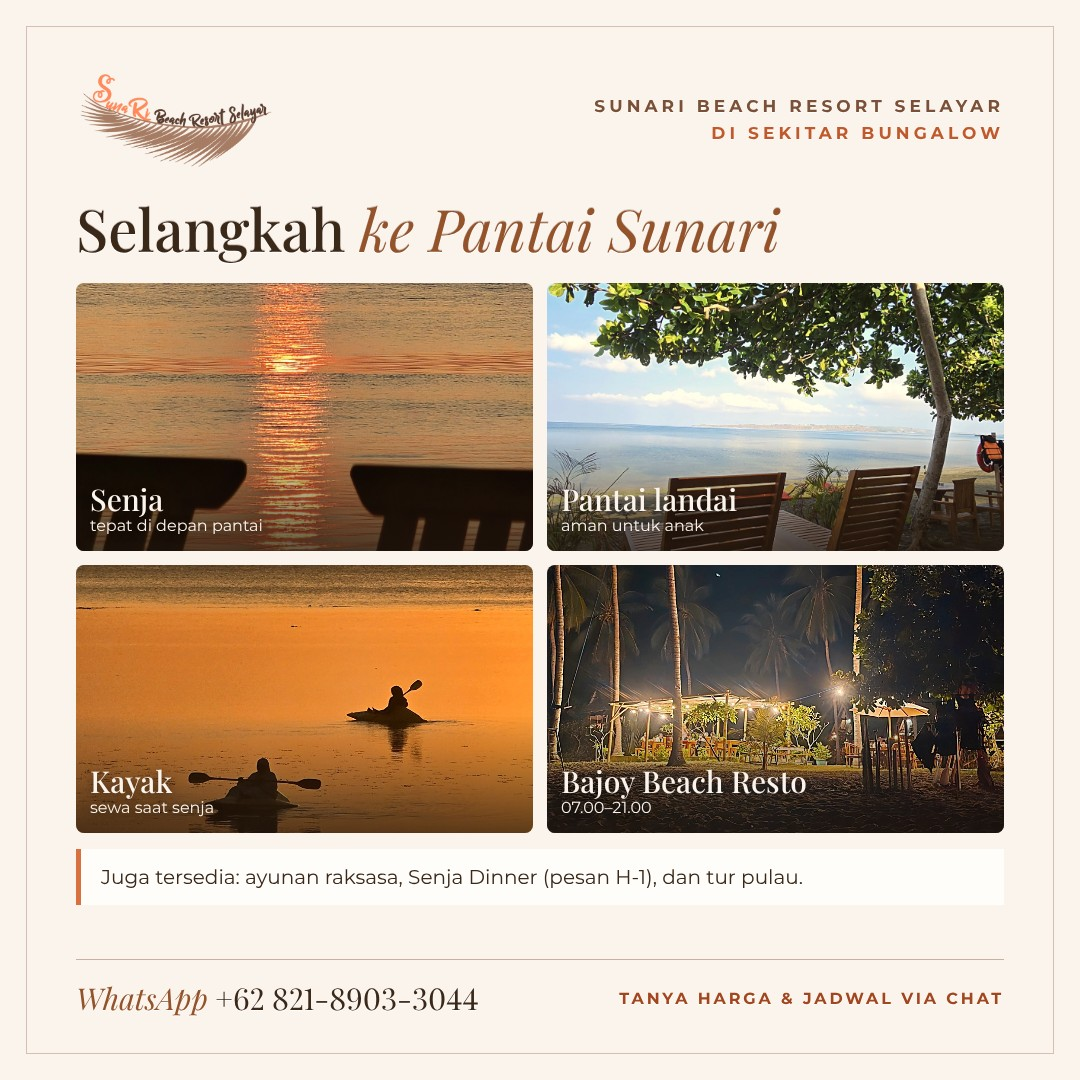
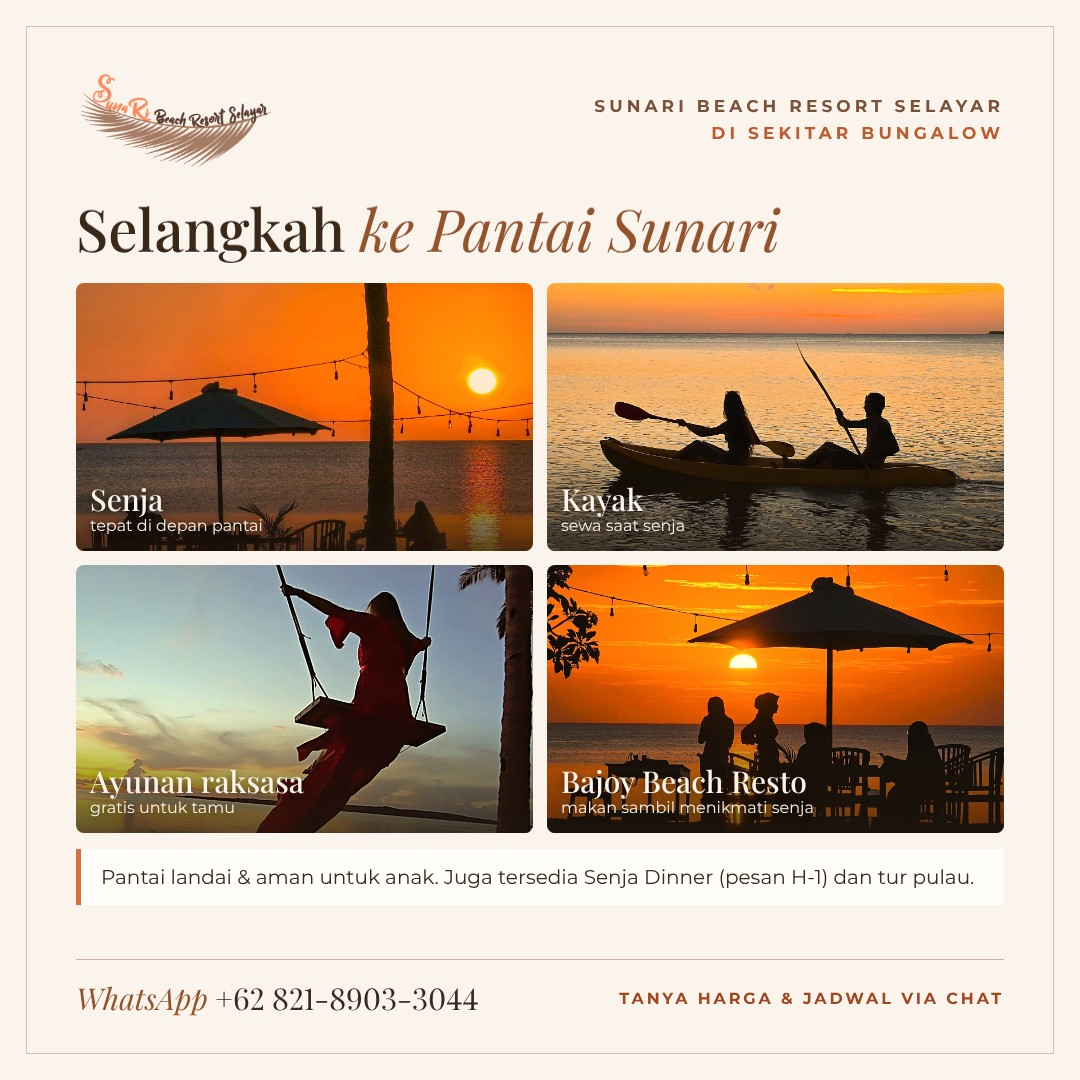
Katalog Superior gambar 9: ganti foto (senja, kayak, ayunan raksasa, Bajoy Beach Resto)
Claude-Session: https://claude.ai/code/session_01KeLc5eBGUnchV5ne3wvwHX

diff --git a/whatsapp/katalog-superior/katalog.html b/whatsapp/katalog-superior/katalog.html
@@ -94,4 +94,4 @@ body{background:#ccc;font-family:Montserrat,sans-serif;color:#3A2819;-webkit-fon
 </style></head><body><div class="sq cover"><div class="frame"></div><div class="bg"><img class="ph" src="foto/g_eksterior.jpg" style="object-position:center 45%"></div><div class="shade"></div>
 <div class="top"><img src="../../assets/logo-sunari-cream.png"></div>
 <div class="txt"><div class="k">SUNARI BEACH RESORT SELAYAR</div><div class="t serif">Superior<br>Bungalow</div><div class="s serif">Rumah kayu di antara pohon kelapa</div>
-<div class="chips"><span>A-frame &amp; loteng</span><span>King bed</span><span>Termasuk sarapan</span></div></div></div><div class="sq "><div class="frame"></div><div class="pad"><div class="head"><img src="../../assets/logo-sunari-color.png"><div class="caps">Superior Bungalow<br><span style="color:#C0592C">Sorotan utama</span></div></div><div class="h1 serif" style="font-size:58px;margin-top:26px">Kamar mandi <span class="it">bertaman</span></div><div class="big" style="height:470px;margin-top:24px"><img class="ph" src="foto/g_taman.jpg" style="object-position:center 50%"></div><div class="feat"><div><div class="ic "><svg viewBox="0 0 24 24"><circle cx="12" cy="14" r="4"/><path d="M2 18h20M12 5v3M4.5 8l2 2M19.5 8l-2 2"/></svg></div><b>Semi-outdoor</b><span>langit terbuka</span></div><div><div class="ic b"><svg viewBox="0 0 24 24"><path d="M4 21V8a5 5 0 0110 0"/><path d="M11 8h6"/><path d="M12 12v1M15 12v1M18 12v1M13.5 15v1M16.5 15v1"/></svg></div><b>Rain shower</b><span>segar</span></div><div><div class="ic c"><svg viewBox="0 0 24 24"><path d="M6 3h12v14H6z"/><path d="M6 17l-1 4h14l-1-4M9 7h6"/></svg></div><b>Lengkap</b><span>handuk &amp; perlengkapan</span></div></div></div><div class="foot"><div class="wa"><i>WhatsApp</i> +62 821-8903-3044</div><div class="tag">Tanya harga &amp; jadwal via chat</div></div></div><div class="sq "><div class="frame"></div><div class="pad"><div class="head"><img src="../../assets/logo-sunari-color.png"><div class="caps">Superior Bungalow<br><span style="color:#C0592C">Kamar</span></div></div><div class="h1 serif" style="font-size:58px;margin-top:26px">A-frame <span class="it">dengan loteng</span></div><div class="two" style="height:500px"><div><img class="ph" src="foto/g_kamar.jpg" style="object-position:center 55%"></div><div><img class="ph" src="foto/g_loteng.jpg" style="object-position:center 50%"></div></div><ul class="bul"><li>King bed di bawah langit-langit kayu yang menjulang</li><li>Loteng dengan tangga kayu</li><li>Lebih luas dari Standard &amp; VIP Standard</li></ul></div><div class="foot"><div class="wa"><i>WhatsApp</i> +62 821-8903-3044</div><div class="tag">Tanya harga &amp; jadwal via chat</div></div></div><div class="sq "><div class="frame"></div><div class="pad"><div class="head"><img src="../../assets/logo-sunari-color.png"><div class="caps">Superior Bungalow<br><span style="color:#C0592C">Fasilitas</span></div></div><div class="h1 serif" style="font-size:58px;margin-top:26px">Semua yang <span class="it">Anda butuhkan</span></div><div class="g4i"><div><div class="ic "><svg viewBox="0 0 24 24"><path d="M3 18v-6a2 2 0 012-2h14a2 2 0 012 2v6"/><path d="M3 15h18M3 18v2M21 18v2"/><path d="M6 10V7a1 1 0 011-1h4a1 1 0 011 1v3"/></svg></div><b>King bed</b><span>bantal &amp; selimut ekstra</span></div><div><div class="ic b"><svg viewBox="0 0 24 24"><rect x="3" y="5" width="18" height="12" rx="1.5"/><path d="M9 21h6M12 17v4"/></svg></div><b>TV</b><span>di kamar</span></div><div><div class="ic b"><svg viewBox="0 0 24 24"><path d="M12 3v18M4.2 7.5l15.6 9M4.2 16.5l15.6-9"/><path d="M10 4.5l2 1.5 2-1.5M10 19.5l2-1.5 2 1.5"/></svg></div><b>AC</b><span>sejuk</span></div><div><div class="ic b"><svg viewBox="0 0 24 24"><path d="M2.5 9a14 14 0 0119 0M5.5 12.5a9.5 9.5 0 0113 0M8.5 16a5 5 0 017 0"/><circle cx="12" cy="19" r="1"/></svg></div><b>Wi-Fi</b><span>gratis</span></div><div><div class="ic c"><svg viewBox="0 0 24 24"><path d="M6 20h11l-1-9H7z"/><path d="M8 11a4 4 0 018 0M16 13h2a2 2 0 010 4h-1.5"/><path d="M11 5h2"/></svg></div><b>Kopi &amp; teh</b><span>dengan kettle</span></div><div><div class="ic c"><svg viewBox="0 0 24 24"><path d="M3 9h18M5 9v11M19 9v11M9 9v5h6V9"/></svg></div><b>Meja kerja</b><span>&amp; rias</span></div><div><div class="ic c"><svg viewBox="0 0 24 24"><path d="M3 3h18M5 3c0 6 2 10 5 13v5M19 3c0 6-2 10-5 13v5"/></svg></div><b>Tirai blackout</b><span>tidur nyenyak</span></div><div><div class="ic b"><svg viewBox="0 0 24 24"><path d="M4 21V8a5 5 0 0110 0"/><path d="M11 8h6"/><path d="M12 12v1M15 12v1M18 12v1M13.5 15v1M16.5 15v1"/></svg></div><b>Rain shower</b><span>semi-outdoor</span></div><div><div class="ic c"><svg viewBox="0 0 24 24"><path d="M6 3h12v14H6z"/><path d="M6 17l-1 4h14l-1-4M9 7h6"/></svg></div><b>Handuk</b><span>&amp; perlengkapan mandi</span></div><div><div class="ic c"><svg viewBox="0 0 24 24"><path d="M3 17h17a1 1 0 001-1 7 7 0 00-7-7H8"/><path d="M3 17l2-5h9M8 20h10"/></svg></div><b>Setrika</b><span>atas permintaan</span></div><div><div class="ic "><svg viewBox="0 0 24 24"><circle cx="12" cy="14" r="4"/><path d="M2 18h20M12 5v3M4.5 8l2 2M19.5 8l-2 2"/></svg></div><b>Teras pribadi</b><span>kursi santai</span></div><div><div class="ic "><svg viewBox="0 0 24 24"><path d="M7 3v8M5 3v5a2 2 0 004 0V3M7 11v10"/><path d="M17 3c-2 0-3 3-3 6s1 4 3 4v8"/></svg></div><b>Sarapan</b><span>setiap pagi</span></div></div></div><div class="foot"><div class="wa"><i>WhatsApp</i> +62 821-8903-3044</div><div class="tag">Tanya harga &amp; jadwal via chat</div></div></div><div class="sq "><div class="frame"></div><div class="pad"><div class="head"><img src="../../assets/logo-sunari-color.png"><div class="caps">Superior Bungalow<br><span style="color:#C0592C">Kamar mandi</span></div></div><div class="h1 serif" style="font-size:58px;margin-top:26px">Segar, terang, <span class="it">dekat alam</span></div><div class="three"><div><img class="ph" src="foto/g_shower.jpg" style="object-position:center 50%"></div><div><img class="ph" src="foto/g_wastafel.jpg" style="object-position:center 50%"></div><div><img class="ph" src="foto/g_toilet.jpg" style="object-position:center 55%"></div></div><ul class="bul"><li>Semi-outdoor, dikelilingi taman hijau</li><li>Rain shower, wastafel, toilet duduk</li><li>Perlengkapan mandi lengkap &amp; handuk bersih setiap tamu</li></ul></div><div class="foot"><div class="wa"><i>WhatsApp</i> +62 821-8903-3044</div><div class="tag">Tanya harga &amp; jadwal via chat</div></div></div><div class="sq "><div class="frame"></div><div class="pad"><div class="head"><img src="../../assets/logo-sunari-color.png"><div class="caps">Superior Bungalow<br><span style="color:#C0592C">Teras pribadi</span></div></div><div class="h1 serif" style="font-size:58px;margin-top:26px">Teras kayu <span class="it">menghadap taman</span></div><div class="big" style="height:520px;margin-top:24px"><img class="ph" src="foto/g_teras.jpg" style="object-position:center 55%"></div><ul class="bul"><li>Kursi santai di teras kayu pribadi</li><li>Pemandangan laut atau taman (sesuai unit)</li></ul></div><div class="foot"><div class="wa"><i>WhatsApp</i> +62 821-8903-3044</div><div class="tag">Tanya harga &amp; jadwal via chat</div></div></div><div class="sq "><div class="frame"></div><div class="pad"><div class="head"><img src="../../assets/logo-sunari-color.png"><div class="caps">Superior Bungalow<br><span style="color:#C0592C">Detail kamar</span></div></div><div class="h1 serif" style="font-size:58px;margin-top:26px">Rapi, hangat, <span class="it">serba kayu</span></div><div class="two" style="height:500px"><div><img class="ph" src="foto/g_meja.jpg" style="object-position:center 50%"></div><div><img class="ph" src="foto/g_tv.jpg" style="object-position:center 50%"></div></div><ul class="bul"><li>Meja rias dengan cermin &amp; gantungan baju</li><li>TV dan set kopi/teh dengan pemanas air</li><li>AC, Wi-Fi, dan tirai blackout</li></ul></div><div class="foot"><div class="wa"><i>WhatsApp</i> +62 821-8903-3044</div><div class="tag">Tanya harga &amp; jadwal via chat</div></div></div><div class="sq "><div class="frame"></div><div class="pad"><div class="head"><img src="../../assets/logo-sunari-color.png"><div class="caps">Superior Bungalow<br><span style="color:#C0592C">Info menginap</span></div></div><div class="h1 serif" style="font-size:58px;margin-top:26px">Yang perlu <span class="it">Anda tahu</span></div><div class="info"><div><div class="ic "><svg viewBox="0 0 24 24"><circle cx="12" cy="8" r="4"/><path d="M4 21c0-4 4-6 8-6s8 2 8 6"/></svg></div><div><b>2 tamu</b><span>maks. 3 dengan 1 extra bed (berbayar)</span></div></div><div><div class="ic b"><svg viewBox="0 0 24 24"><circle cx="12" cy="12" r="9"/><path d="M12 7v5l3 2"/></svg></div><div><b>Check-in 14.00</b><span>check-out 12.00 WITA</span></div></div><div><div class="ic "><svg viewBox="0 0 24 24"><path d="M7 3v8M5 3v5a2 2 0 004 0V3M7 11v10"/><path d="M17 3c-2 0-3 3-3 6s1 4 3 4v8"/></svg></div><div><b>Sarapan</b><span>termasuk setiap pagi</span></div></div><div><div class="ic c"><svg viewBox="0 0 24 24"><path d="M3 18v-6a2 2 0 012-2h14a2 2 0 012 2v6"/><path d="M3 15h18M3 18v2M21 18v2"/><path d="M6 10V7a1 1 0 011-1h4a1 1 0 011 1v3"/></svg></div><div><b>King bed</b><span>1 kamar, dengan loteng</span></div></div><div><div class="ic b"><svg viewBox="0 0 24 24"><path d="M3 16v-4l2-5h14l2 5v4z"/><circle cx="7.5" cy="17" r="1.8"/><circle cx="16.5" cy="17" r="1.8"/></svg></div><div><b>Antar-jemput</b><span>bandara / pelabuhan (berbayar)</span></div></div><div><div class="ic "><svg viewBox="0 0 24 24"><circle cx="12" cy="14" r="4"/><path d="M2 18h20M12 5v3M4.5 8l2 2M19.5 8l-2 2"/></svg></div><div><b>Senja di Pantai Sunari</b><span>pesisir barat Selayar</span></div></div></div><div class="quote">Rumah kayu A-frame di antara pohon kelapa, lebih luas dari Standard.</div><div class="two" style="height:290px;margin-top:18px"><div><img class="ph" src="foto/g_depan.jpg" style="object-position:center 45%"></div><div><img class="ph" src="foto/g_teras.jpg" style="object-position:center 55%"></div></div></div><div class="foot"><div class="wa"><i>WhatsApp</i> +62 821-8903-3044</div><div class="tag">Tanya harga &amp; jadwal via chat</div></div></div><div class="sq "><div class="frame"></div><div class="pad"><div class="head"><img src="../../assets/logo-sunari-color.png"><div class="caps">SunaRi Beach Resort Selayar<br><span style="color:#C0592C">Di sekitar bungalow</span></div></div><div class="h1 serif" style="font-size:58px;margin-top:26px">Selangkah <span class="it">ke Pantai Sunari</span></div><div class="near"><div><img class="ph" src="foto/g_senja.jpg" style="object-position:center 78%"><div class="lbl"><b>Senja</b><span>tepat di depan pantai</span></div></div><div><img class="ph" src="foto/g_pantai.jpg" style="object-position:center 50%"><div class="lbl"><b>Pantai landai</b><span>aman untuk anak</span></div></div><div><img class="ph" src="foto/g_kayak.jpg" style="object-position:center 62%"><div class="lbl"><b>Kayak</b><span>sewa saat senja</span></div></div><div><img class="ph" src="foto/g_resto.jpg" style="object-position:center 62%"><div class="lbl"><b>Bajoy Beach Resto</b><span>07.00–21.00</span></div></div></div><div class="note" style="margin-top:16px">Juga tersedia: ayunan raksasa, Senja Dinner (pesan H-1), dan tur pulau.</div></div><div class="foot"><div class="wa"><i>WhatsApp</i> +62 821-8903-3044</div><div class="tag">Tanya harga &amp; jadwal via chat</div></div></div><div class="sq "><div class="frame"></div><div class="pad"><div class="head"><img src="../../assets/logo-sunari-color.png"><div class="caps">Superior Bungalow<br><span style="color:#C0592C">Cara memesan</span></div></div><div class="h1 serif" style="font-size:58px;margin-top:26px">Pesan dalam <span class="it">3 langkah</span></div><ol class="steps"><li>Chat kami: sebutkan tanggal check-in &amp; check-out</li><li>Sebutkan jumlah tamu dan perlu extra bed atau tidak</li><li>Kami kirim harga, ketersediaan, dan detail pembayaran</li></ol><div style="height:250px;border-radius:8px;overflow:hidden;margin-top:28px"><img class="ph" src="foto/g_depan.jpg" style="object-position:center 50%"></div><div class="cta" style="margin-top:24px"><div class="t">Tanya harga &amp; ketersediaan</div><div class="w">WhatsApp +62 821-8903-3044</div></div></div></div></body></html>
+<div class="chips"><span>A-frame &amp; loteng</span><span>King bed</span><span>Termasuk sarapan</span></div></div></div><div class="sq "><div class="frame"></div><div class="pad"><div class="head"><img src="../../assets/logo-sunari-color.png"><div class="caps">Superior Bungalow<br><span style="color:#C0592C">Sorotan utama</span></div></div><div class="h1 serif" style="font-size:58px;margin-top:26px">Kamar mandi <span class="it">bertaman</span></div><div class="big" style="height:470px;margin-top:24px"><img class="ph" src="foto/g_taman.jpg" style="object-position:center 50%"></div><div class="feat"><div><div class="ic "><svg viewBox="0 0 24 24"><circle cx="12" cy="14" r="4"/><path d="M2 18h20M12 5v3M4.5 8l2 2M19.5 8l-2 2"/></svg></div><b>Semi-outdoor</b><span>langit terbuka</span></div><div><div class="ic b"><svg viewBox="0 0 24 24"><path d="M4 21V8a5 5 0 0110 0"/><path d="M11 8h6"/><path d="M12 12v1M15 12v1M18 12v1M13.5 15v1M16.5 15v1"/></svg></div><b>Rain shower</b><span>segar</span></div><div><div class="ic c"><svg viewBox="0 0 24 24"><path d="M6 3h12v14H6z"/><path d="M6 17l-1 4h14l-1-4M9 7h6"/></svg></div><b>Lengkap</b><span>handuk &amp; perlengkapan</span></div></div></div><div class="foot"><div class="wa"><i>WhatsApp</i> +62 821-8903-3044</div><div class="tag">Tanya harga &amp; jadwal via chat</div></div></div><div class="sq "><div class="frame"></div><div class="pad"><div class="head"><img src="../../assets/logo-sunari-color.png"><div class="caps">Superior Bungalow<br><span style="color:#C0592C">Kamar</span></div></div><div class="h1 serif" style="font-size:58px;margin-top:26px">A-frame <span class="it">dengan loteng</span></div><div class="two" style="height:500px"><div><img class="ph" src="foto/g_kamar.jpg" style="object-position:center 55%"></div><div><img class="ph" src="foto/g_loteng.jpg" style="object-position:center 50%"></div></div><ul class="bul"><li>King bed di bawah langit-langit kayu yang menjulang</li><li>Loteng dengan tangga kayu</li><li>Lebih luas dari Standard &amp; VIP Standard</li></ul></div><div class="foot"><div class="wa"><i>WhatsApp</i> +62 821-8903-3044</div><div class="tag">Tanya harga &amp; jadwal via chat</div></div></div><div class="sq "><div class="frame"></div><div class="pad"><div class="head"><img src="../../assets/logo-sunari-color.png"><div class="caps">Superior Bungalow<br><span style="color:#C0592C">Fasilitas</span></div></div><div class="h1 serif" style="font-size:58px;margin-top:26px">Semua yang <span class="it">Anda butuhkan</span></div><div class="g4i"><div><div class="ic "><svg viewBox="0 0 24 24"><path d="M3 18v-6a2 2 0 012-2h14a2 2 0 012 2v6"/><path d="M3 15h18M3 18v2M21 18v2"/><path d="M6 10V7a1 1 0 011-1h4a1 1 0 011 1v3"/></svg></div><b>King bed</b><span>bantal &amp; selimut ekstra</span></div><div><div class="ic b"><svg viewBox="0 0 24 24"><rect x="3" y="5" width="18" height="12" rx="1.5"/><path d="M9 21h6M12 17v4"/></svg></div><b>TV</b><span>di kamar</span></div><div><div class="ic b"><svg viewBox="0 0 24 24"><path d="M12 3v18M4.2 7.5l15.6 9M4.2 16.5l15.6-9"/><path d="M10 4.5l2 1.5 2-1.5M10 19.5l2-1.5 2 1.5"/></svg></div><b>AC</b><span>sejuk</span></div><div><div class="ic b"><svg viewBox="0 0 24 24"><path d="M2.5 9a14 14 0 0119 0M5.5 12.5a9.5 9.5 0 0113 0M8.5 16a5 5 0 017 0"/><circle cx="12" cy="19" r="1"/></svg></div><b>Wi-Fi</b><span>gratis</span></div><div><div class="ic c"><svg viewBox="0 0 24 24"><path d="M6 20h11l-1-9H7z"/><path d="M8 11a4 4 0 018 0M16 13h2a2 2 0 010 4h-1.5"/><path d="M11 5h2"/></svg></div><b>Kopi &amp; teh</b><span>dengan kettle</span></div><div><div class="ic c"><svg viewBox="0 0 24 24"><path d="M3 9h18M5 9v11M19 9v11M9 9v5h6V9"/></svg></div><b>Meja kerja</b><span>&amp; rias</span></div><div><div class="ic c"><svg viewBox="0 0 24 24"><path d="M3 3h18M5 3c0 6 2 10 5 13v5M19 3c0 6-2 10-5 13v5"/></svg></div><b>Tirai blackout</b><span>tidur nyenyak</span></div><div><div class="ic b"><svg viewBox="0 0 24 24"><path d="M4 21V8a5 5 0 0110 0"/><path d="M11 8h6"/><path d="M12 12v1M15 12v1M18 12v1M13.5 15v1M16.5 15v1"/></svg></div><b>Rain shower</b><span>semi-outdoor</span></div><div><div class="ic c"><svg viewBox="0 0 24 24"><path d="M6 3h12v14H6z"/><path d="M6 17l-1 4h14l-1-4M9 7h6"/></svg></div><b>Handuk</b><span>&amp; perlengkapan mandi</span></div><div><div class="ic c"><svg viewBox="0 0 24 24"><path d="M3 17h17a1 1 0 001-1 7 7 0 00-7-7H8"/><path d="M3 17l2-5h9M8 20h10"/></svg></div><b>Setrika</b><span>atas permintaan</span></div><div><div class="ic "><svg viewBox="0 0 24 24"><circle cx="12" cy="14" r="4"/><path d="M2 18h20M12 5v3M4.5 8l2 2M19.5 8l-2 2"/></svg></div><b>Teras pribadi</b><span>kursi santai</span></div><div><div class="ic "><svg viewBox="0 0 24 24"><path d="M7 3v8M5 3v5a2 2 0 004 0V3M7 11v10"/><path d="M17 3c-2 0-3 3-3 6s1 4 3 4v8"/></svg></div><b>Sarapan</b><span>setiap pagi</span></div></div></div><div class="foot"><div class="wa"><i>WhatsApp</i> +62 821-8903-3044</div><div class="tag">Tanya harga &amp; jadwal via chat</div></div></div><div class="sq "><div class="frame"></div><div class="pad"><div class="head"><img src="../../assets/logo-sunari-color.png"><div class="caps">Superior Bungalow<br><span style="color:#C0592C">Kamar mandi</span></div></div><div class="h1 serif" style="font-size:58px;margin-top:26px">Segar, terang, <span class="it">dekat alam</span></div><div class="three"><div><img class="ph" src="foto/g_shower.jpg" style="object-position:center 50%"></div><div><img class="ph" src="foto/g_wastafel.jpg" style="object-position:center 50%"></div><div><img class="ph" src="foto/g_toilet.jpg" style="object-position:center 55%"></div></div><ul class="bul"><li>Semi-outdoor, dikelilingi taman hijau</li><li>Rain shower, wastafel, toilet duduk</li><li>Perlengkapan mandi lengkap &amp; handuk bersih setiap tamu</li></ul></div><div class="foot"><div class="wa"><i>WhatsApp</i> +62 821-8903-3044</div><div class="tag">Tanya harga &amp; jadwal via chat</div></div></div><div class="sq "><div class="frame"></div><div class="pad"><div class="head"><img src="../../assets/logo-sunari-color.png"><div class="caps">Superior Bungalow<br><span style="color:#C0592C">Teras pribadi</span></div></div><div class="h1 serif" style="font-size:58px;margin-top:26px">Teras kayu <span class="it">menghadap taman</span></div><div class="big" style="height:520px;margin-top:24px"><img class="ph" src="foto/g_teras.jpg" style="object-position:center 55%"></div><ul class="bul"><li>Kursi santai di teras kayu pribadi</li><li>Pemandangan laut atau taman (sesuai unit)</li></ul></div><div class="foot"><div class="wa"><i>WhatsApp</i> +62 821-8903-3044</div><div class="tag">Tanya harga &amp; jadwal via chat</div></div></div><div class="sq "><div class="frame"></div><div class="pad"><div class="head"><img src="../../assets/logo-sunari-color.png"><div class="caps">Superior Bungalow<br><span style="color:#C0592C">Detail kamar</span></div></div><div class="h1 serif" style="font-size:58px;margin-top:26px">Rapi, hangat, <span class="it">serba kayu</span></div><div class="two" style="height:500px"><div><img class="ph" src="foto/g_meja.jpg" style="object-position:center 50%"></div><div><img class="ph" src="foto/g_tv.jpg" style="object-position:center 50%"></div></div><ul class="bul"><li>Meja rias dengan cermin &amp; gantungan baju</li><li>TV dan set kopi/teh dengan pemanas air</li><li>AC, Wi-Fi, dan tirai blackout</li></ul></div><div class="foot"><div class="wa"><i>WhatsApp</i> +62 821-8903-3044</div><div class="tag">Tanya harga &amp; jadwal via chat</div></div></div><div class="sq "><div class="frame"></div><div class="pad"><div class="head"><img src="../../assets/logo-sunari-color.png"><div class="caps">Superior Bungalow<br><span style="color:#C0592C">Info menginap</span></div></div><div class="h1 serif" style="font-size:58px;margin-top:26px">Yang perlu <span class="it">Anda tahu</span></div><div class="info"><div><div class="ic "><svg viewBox="0 0 24 24"><circle cx="12" cy="8" r="4"/><path d="M4 21c0-4 4-6 8-6s8 2 8 6"/></svg></div><div><b>2 tamu</b><span>maks. 3 dengan 1 extra bed (berbayar)</span></div></div><div><div class="ic b"><svg viewBox="0 0 24 24"><circle cx="12" cy="12" r="9"/><path d="M12 7v5l3 2"/></svg></div><div><b>Check-in 14.00</b><span>check-out 12.00 WITA</span></div></div><div><div class="ic "><svg viewBox="0 0 24 24"><path d="M7 3v8M5 3v5a2 2 0 004 0V3M7 11v10"/><path d="M17 3c-2 0-3 3-3 6s1 4 3 4v8"/></svg></div><div><b>Sarapan</b><span>termasuk setiap pagi</span></div></div><div><div class="ic c"><svg viewBox="0 0 24 24"><path d="M3 18v-6a2 2 0 012-2h14a2 2 0 012 2v6"/><path d="M3 15h18M3 18v2M21 18v2"/><path d="M6 10V7a1 1 0 011-1h4a1 1 0 011 1v3"/></svg></div><div><b>King bed</b><span>1 kamar, dengan loteng</span></div></div><div><div class="ic b"><svg viewBox="0 0 24 24"><path d="M3 16v-4l2-5h14l2 5v4z"/><circle cx="7.5" cy="17" r="1.8"/><circle cx="16.5" cy="17" r="1.8"/></svg></div><div><b>Antar-jemput</b><span>bandara / pelabuhan (berbayar)</span></div></div><div><div class="ic "><svg viewBox="0 0 24 24"><circle cx="12" cy="14" r="4"/><path d="M2 18h20M12 5v3M4.5 8l2 2M19.5 8l-2 2"/></svg></div><div><b>Senja di Pantai Sunari</b><span>pesisir barat Selayar</span></div></div></div><div class="quote">Rumah kayu A-frame di antara pohon kelapa, lebih luas dari Standard.</div><div class="two" style="height:290px;margin-top:18px"><div><img class="ph" src="foto/g_depan.jpg" style="object-position:center 45%"></div><div><img class="ph" src="foto/g_teras.jpg" style="object-position:center 55%"></div></div></div><div class="foot"><div class="wa"><i>WhatsApp</i> +62 821-8903-3044</div><div class="tag">Tanya harga &amp; jadwal via chat</div></div></div><div class="sq "><div class="frame"></div><div class="pad"><div class="head"><img src="../../assets/logo-sunari-color.png"><div class="caps">SunaRi Beach Resort Selayar<br><span style="color:#C0592C">Di sekitar bungalow</span></div></div><div class="h1 serif" style="font-size:58px;margin-top:26px">Selangkah <span class="it">ke Pantai Sunari</span></div><div class="near"><div><img class="ph" src="foto/g_senja2.jpg" style="object-position:center 70%"><div class="lbl"><b>Senja</b><span>tepat di depan pantai</span></div></div><div><img class="ph" src="foto/g_kayak2.jpg" style="object-position:center 65%"><div class="lbl"><b>Kayak</b><span>sewa saat senja</span></div></div><div><img class="ph" src="foto/g_ayunan.jpg" style="object-position:center 45%"><div class="lbl"><b>Ayunan raksasa</b><span>gratis untuk tamu</span></div></div><div><img class="ph" src="foto/g_resto2.jpg" style="object-position:center 70%"><div class="lbl"><b>Bajoy Beach Resto</b><span>makan sambil menikmati senja</span></div></div></div><div class="note" style="margin-top:16px">Pantai landai &amp; aman untuk anak. Juga tersedia Senja Dinner (pesan H-1) dan tur pulau.</div></div><div class="foot"><div class="wa"><i>WhatsApp</i> +62 821-8903-3044</div><div class="tag">Tanya harga &amp; jadwal via chat</div></div></div><div class="sq "><div class="frame"></div><div class="pad"><div class="head"><img src="../../assets/logo-sunari-color.png"><div class="caps">Superior Bungalow<br><span style="color:#C0592C">Cara memesan</span></div></div><div class="h1 serif" style="font-size:58px;margin-top:26px">Pesan dalam <span class="it">3 langkah</span></div><ol class="steps"><li>Chat kami: sebutkan tanggal check-in &amp; check-out</li><li>Sebutkan jumlah tamu dan perlu extra bed atau tidak</li><li>Kami kirim harga, ketersediaan, dan detail pembayaran</li></ol><div style="height:250px;border-radius:8px;overflow:hidden;margin-top:28px"><img class="ph" src="foto/g_depan.jpg" style="object-position:center 50%"></div><div class="cta" style="margin-top:24px"><div class="t">Tanya harga &amp; ketersediaan</div><div class="w">WhatsApp +62 821-8903-3044</div></div></div></div></body></html>

diff --git a/whatsapp/katalog-superior/build.py b/whatsapp/katalog-superior/build.py
@@ -116,12 +116,12 @@ S.append(sq('<div class="pad">' + head(f"{TAG}<br><span style=\"color:#C0592C\">
   + f'<div class="two" style="height:290px;margin-top:18px"><div>{img("depan", "center 45%")}</div><div>{img("teras", "center 55%")}</div></div></div>' + foot()))
 
 # 9 di sekitar bungalow
-near = [("senja", "center 78%", "Senja", "tepat di depan pantai"), ("pantai", "center 50%", "Pantai landai", "aman untuk anak"),
-        ("kayak", "center 62%", "Kayak", "sewa saat senja"), ("resto", "center 62%", "Bajoy Beach Resto", "07.00–21.00")]
+near = [("senja2", "center 70%", "Senja", "tepat di depan pantai"), ("kayak2", "center 65%", "Kayak", "sewa saat senja"),
+        ("ayunan", "center 45%", "Ayunan raksasa", "gratis untuk tamu"), ("resto2", "center 70%", "Bajoy Beach Resto", "makan sambil menikmati senja")]
 S.append(sq('<div class="pad">' + head(f"SunaRi Beach Resort Selayar<br><span style=\"color:#C0592C\">Di sekitar bungalow</span>")
   + h1('Selangkah <span class="it">ke Pantai Sunari</span>')
   + '<div class="near">' + "".join(f'<div>{img(k, p)}<div class="lbl"><b>{t}</b><span>{d}</span></div></div>' for k, p, t, d in near) + '</div>'
-  + '<div class="note" style="margin-top:16px">Juga tersedia: ayunan raksasa, Senja Dinner (pesan H-1), dan tur pulau.</div></div>' + foot()))
+  + '<div class="note" style="margin-top:16px">Pantai landai &amp; aman untuk anak. Juga tersedia Senja Dinner (pesan H-1) dan tur pulau.</div></div>' + foot()))
 
 # 10 cara pesan
 S.append(sq('<div class="pad">' + head(f"{TAG}<br><span style=\"color:#C0592C\">Cara memesan</span>")
